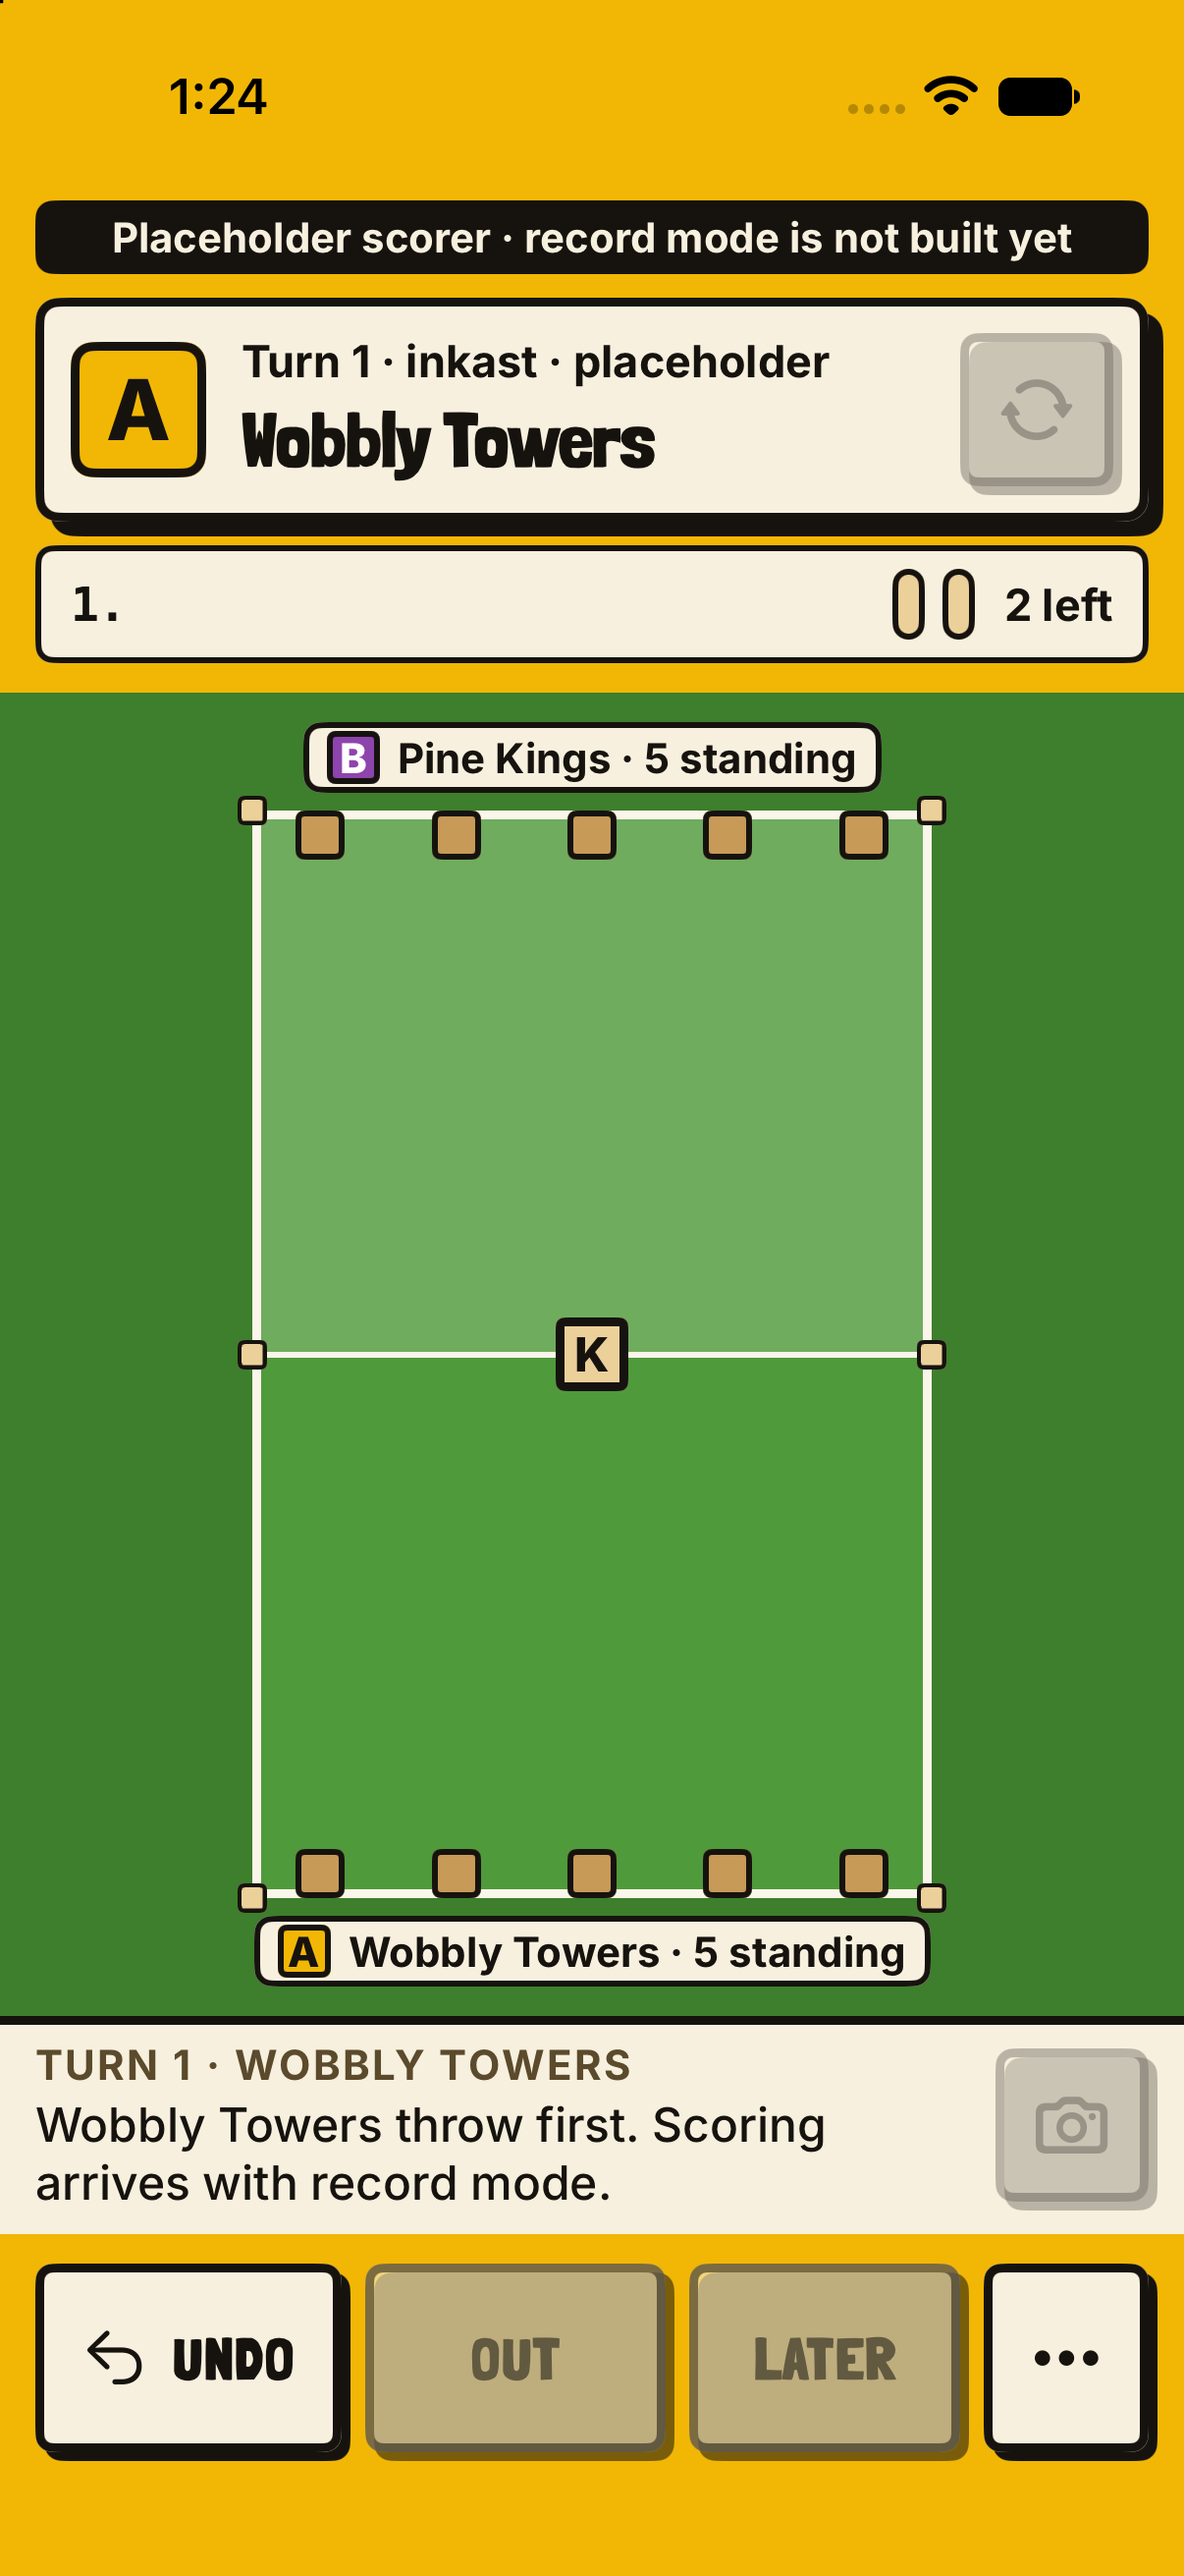
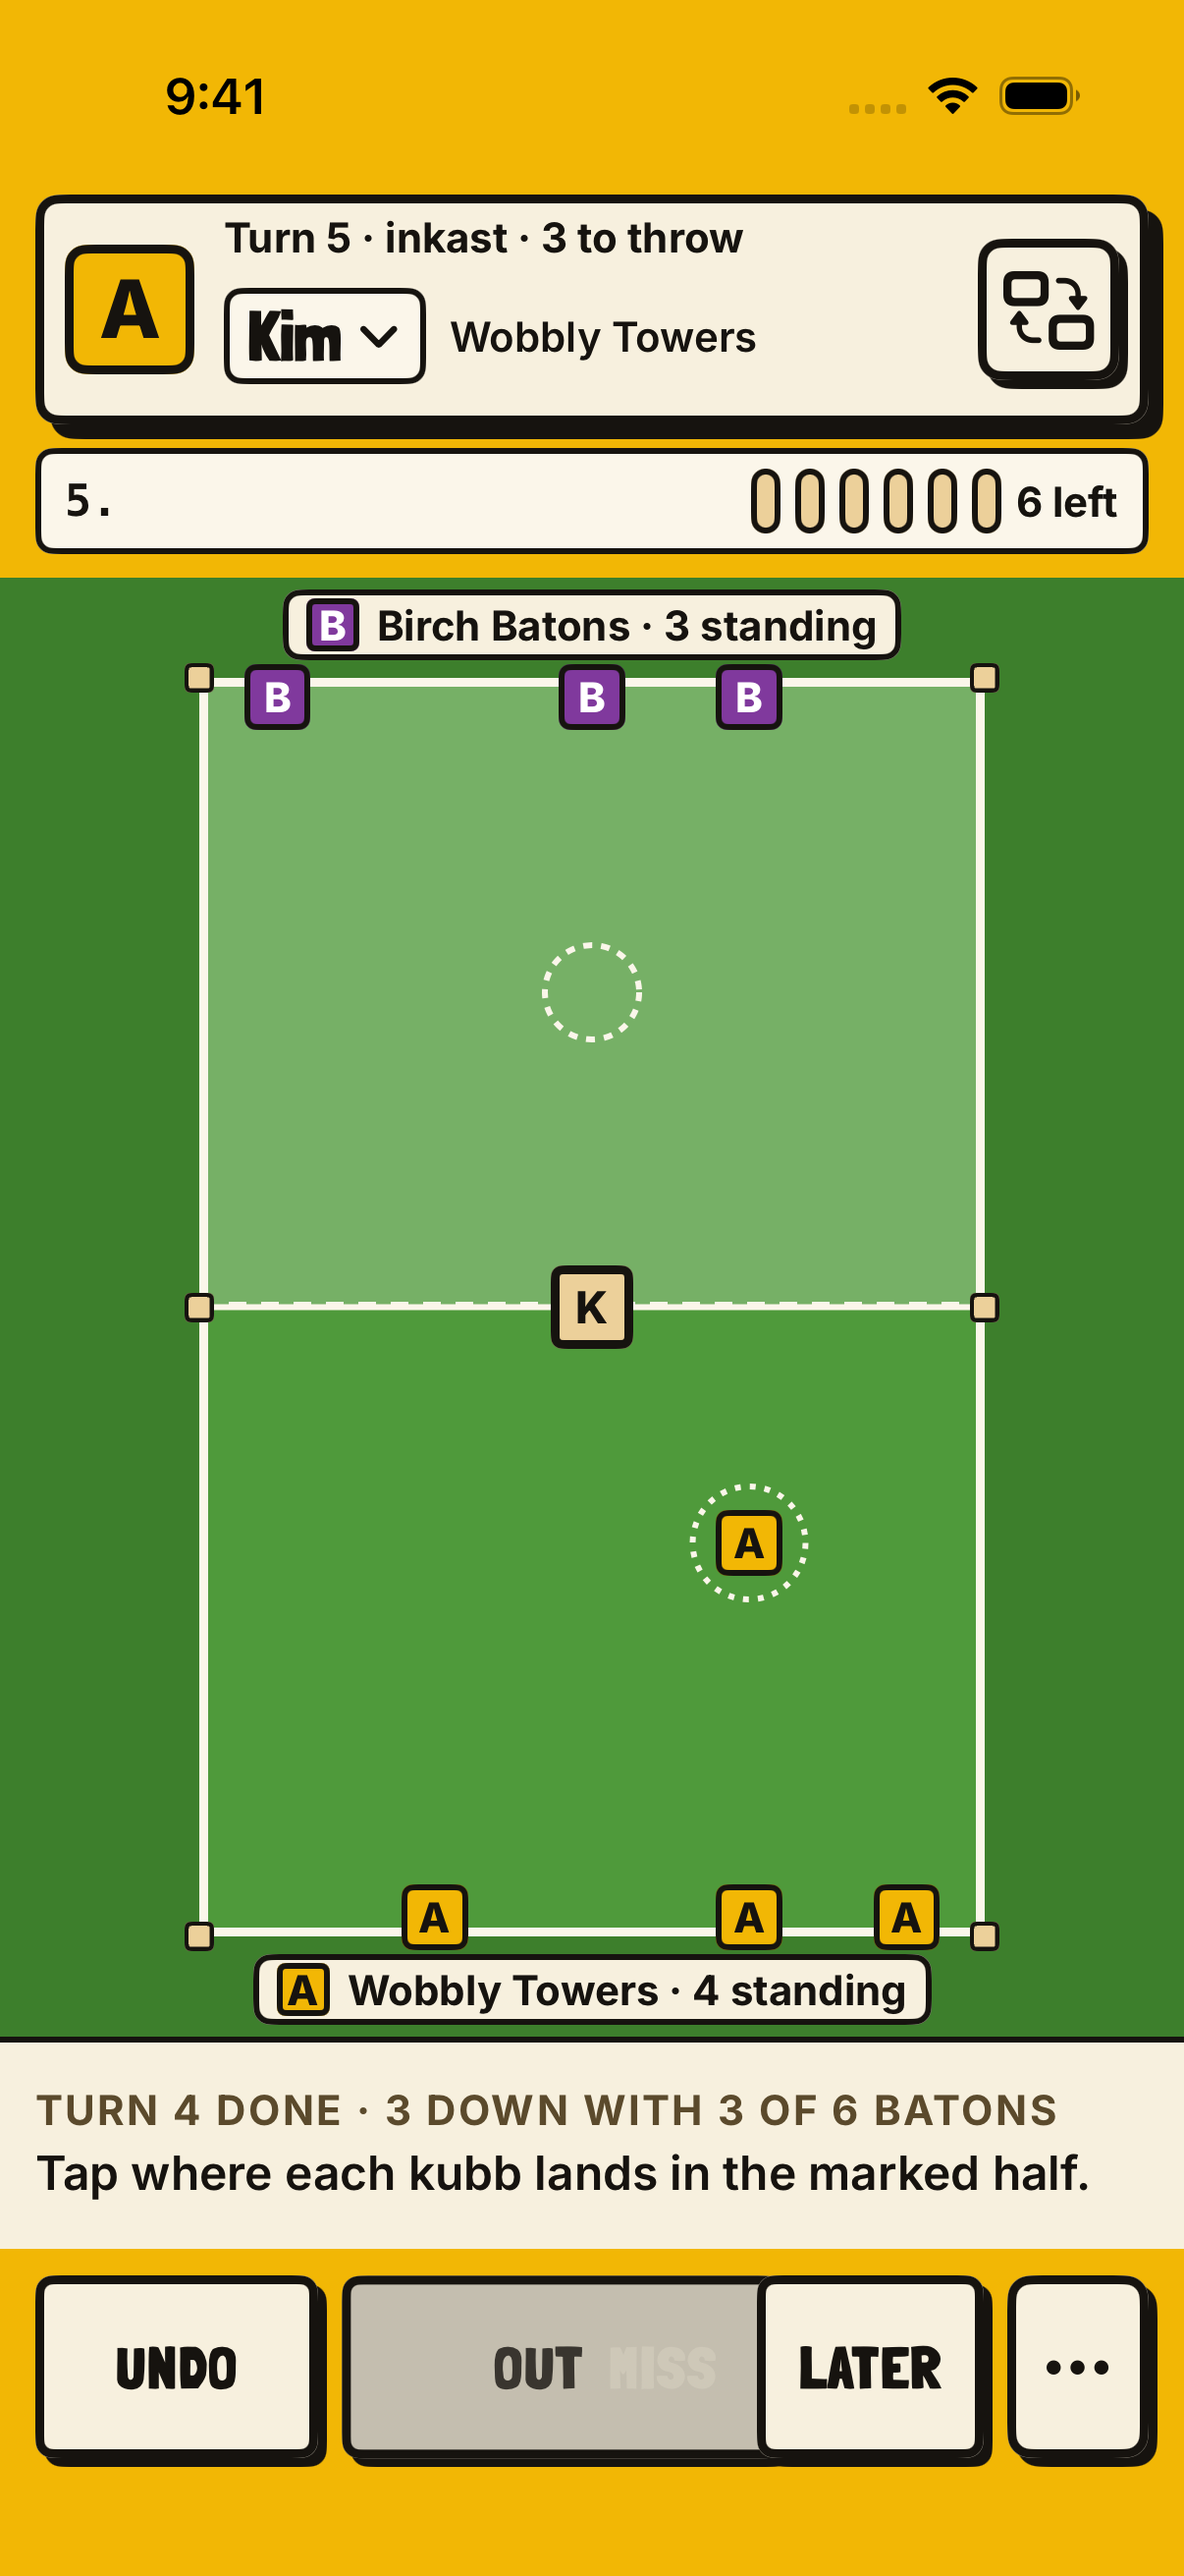
Document the live scorer and refresh the simulator gallery

diff --git a/AGENTS.md b/AGENTS.md
@@ -544,41 +544,63 @@ generated team names, the rules choice).
 
 ## 10. Conventions for agents
 
-- **Status** (2026-11-24): scaffold on branch `scaffold`, local only, no remote. Jamie
-  decides where the repository lives and whether it is public. Built: the Xcode project and
-  `PitchsideKit`, the design system, the model and storage, Home, Roster, Teams, This game,
-  the score sheet, Stats (per game and per saved name), opening a Notation 2 file, and a
-  **placeholder scorer** that draws the static pitch. Not built: record mode and the real
-  scorer, the timeline, the view switch (sideline/baseline), photos, the lay-line drag,
-  landscape, the app icon, drag to reorder (a menu does it for now).
-- **Layout.** `Pitchside/` the app target (SwiftUI; `Demo.swift` is DEBUG only).
-  `PitchsideKit/` the Swift package: `CMusl`, `CLua`, `KubbEngine` (kubb-engine v1.0.0,
-  vendored, behind `kubbCall`), `Notation` (pk-kubb-score v2-2026.11's parser, `canonical.js`
-  and `kubb.js`, vendored and run in JavaScriptCore), `PitchsideModel` (games, roster,
-  event log, the game file's headers and ids, stats, the scorer seam) and `PitchsideDesign`
-  (tokens from the design's `ps.css`, light and dark, and the components). `Config/`
-  (Info.plist, signing kept out of the repo), `scripts/` (vendoring, `version.sh`,
-  `screenshots.sh`), `docs/design/` (the design and `build-shots/`).
-- **The seam for the live scorer** is `PitchsideKit/Sources/PitchsideModel/Scorer.swift`:
-  `protocol LiveScorer` (the game, its events, the prompt, the winner, `record`, `undo`,
-  `setCapture`, `notation()`) and `protocol ScorerFactory`. The app asks
-  `AppModel.scorers` for one; today that is `PlaceholderScorer.Factory`. Record mode lands
-  as a new `LiveScorer` over the engine; no screen talks to the engine directly.
-- **Storage.** Application Support `Pitchside/`: `roster.json`, and per game
-  `games/<uuid>/game.json`, `events.jsonl` (append-only JSON Lines, fsynced after each
-  event; a torn last line is dropped) and `game.txt` (the notation). Offline and local:
-  no network, no analytics.
+- **Status (2026-11-24).** A game can be set up, scored, reopened, corrected and
+  exported on the iPhone simulator. The live pitch, in-game timeline, score sheet,
+  roster, local stats and opening other Notation 2 files are connected. The repository
+  stays local on `scaffold`. Photos, lay-line entry, landscape and an app icon are
+  future work. The team-order menu moves players. Apple has registered the explicit
+  identifier `com.throwingwood.pitchside` as “Kubb Pitchside” on Throwing Wood's
+  developer team. The owner creates the app record in App Store Connect.
+- **Layout.** `Pitchside/` contains the SwiftUI app. `ScorerView.swift` and
+  `PitchCanvas.swift` draw the live screen. `ScorerScreen.swift` interprets gestures
+  using the engine's next action and allowed events. `TimelineView.swift` previews
+  corrections. `Demo.swift` supplies invented games for DEBUG builds.
+  `PitchsideKit/` contains the Lua interpreter and musl maths, `KubbEngine`
+  (kubb-engine v1.1.0), `Notation` (the pk-kubb-score v2-2026.11 reader running in
+  JavaScriptCore), `PitchsideModel` and `PitchsideDesign`. The Xcode UI tests live in
+  `PitchsideUITests/`. The working reference and simulator screenshots are under
+  `docs/design/`.
+- **Scorer seam.** `PitchsideModel/Scorer.swift` declares `LiveScorer` and
+  `ScorerFactory`. `AppModel` uses `RecordScorer.Factory`. The scorer calls
+  `record.rebuild` on open, `record.add` for observations and `record.build` for an edit
+  preview. The engine returns the state, warnings, sheet and notation. See kubb-engine
+  `docs/RECORD.md` at v1.1.0 for the record contract that implements section 5's proposal.
+- **Storage.** Under Application Support `Pitchside/`, the roster is `roster.json` and
+  each game has a `games/<uuid>/` directory. In `events.jsonl` the start entry pins
+  setup, including typed names and explicit player ids. Each observation has its record
+  fields and id at the top level. The reserved `_log` object carries journal metadata.
+  Undo drops the last effective observation. A correction replaces, inserts or removes
+  an observation by id. Both append journal lines and replay the effective history.
+  A newline terminates each synced entry. The next append truncates a torn tail.
+  `game.json` keeps the game summary and `game.txt` is the engine's current notation,
+  a draft until `state.over`. Opening the app repairs stale exports from the journal.
+- **Capture and coordinates.** New games record the turn and standing positions.
+  The writer's released capture header names `players`, `pitch` and `stance` if used,
+  or `turns` when only outcomes are recorded. A switch applies per turn. The lay row is
+  reserved. New taps carry half, across, depth and their approximate tap provenance in the
+  journal. `PitchFrame` maps the three viewing positions to a common centre-line origin.
+  Record mode returns metre cells for kubbs and writes stance points to the centimetre.
+  Pieces in one cell are spread on screen so each is selectable. Stable piece ids and
+  original standing points in the returned state would let Pitchside draw a drilled
+  group at its observed spots. The observed advantage distance stays in the journal.
+  On a baton with both located and unlocated hits, `knownFelled` keeps the available
+  positions locally until the timeline editor can supply a complete felled word.
 - **Build and test.**
-  - `swift test --package-path PitchsideKit` (model, design contrast, the reader against
-    node's `kubb.js` on archived games read in place from `../pk-kubb-score/games`, and the
-    engine's golden hashes). Needs node on the PATH for the reader comparison.
+  - `swift test --package-path PitchsideKit` runs model, frame, contrast, reader and
+    engine tests. Node is needed to compare the reader with archived games read in
+    place from `../pk-kubb-score/games`. The Swift scorer replays all eleven tagged
+    record fixtures and compares their output bytes with the tagged desktop engine.
+    `scripts/record-fixtures.sh` regenerates the test input and reference output.
   - `xcodebuild -project Pitchside.xcodeproj -scheme Pitchside -destination
-    'platform=iOS Simulator,name=iPhone 17' build`. Simulator only; for a phone put
-    `DEVELOPMENT_TEAM` in `Config/Signing.local.xcconfig` (ignored by git).
-  - `scripts/screenshots.sh` builds the demo (`-PitchsideDemo`, invented games in a temp
-    folder) and writes `docs/design/build-shots/`.
-  - `scripts/vendor-engine.sh check` and `scripts/vendor-notation.sh check` verify the
-    vendored copies against their tags.
+    'platform=iOS Simulator,name=iPhone 17' CODE_SIGNING_ALLOWED=NO build` builds
+    the simulator app. Replace `build` with `-parallel-testing-enabled NO test` for
+    the seven UI journeys.
+  - `scripts/screenshots.sh --scorer "iPhone 17"` runs the UI journeys and writes their
+    attachments to `docs/design/build-shots/` and checks the simulator export with the
+    vendored reader. Omit `--scorer` to refresh the other
+    demo screens too. DEBUG demo launches use a temporary game store.
+  - `scripts/vendor-engine.sh check` and `scripts/vendor-notation.sh check` check
+    the tagged copies. Finish simulator work with `xcrun simctl shutdown all`.
 - **The engine is never edited here.** Not the vendored copy, not the kubb-engine checkout
   from here. A change to the rules, record mode or the writer is a kubb-engine pull
   request and a tag, then a sync here. The same for the notation: a pk-kubb-score pull

diff --git a/README.md b/README.md
@@ -3,10 +3,10 @@
 An iPhone app for scoring real games of kubb, throw by throw, in Planet Kubb Notation,
 from the side of the pitch.
 
-Status: scaffold (2026-11-24). The screens around the game work: teams, the match's
-switches, the score sheet, stats from the Planet Kubb reader, and opening a game file. The
-live scorer is a placeholder until the engine's record mode. Pitchside runs on the same
-Kubb Engine as Kubb: Throwing Wood. Games and names stay on the phone.
+Score a game on the pitch, undo a throw or correct an earlier turn in the timeline.
+The score sheet, notation export and player stats follow the same local record.
+Pitchside uses Kubb Engine v1.1.0 and the Planet Kubb Notation 2 reader. Games and
+roster names stay on the phone.
 
 `AGENTS.md` has the plan: what it is, the domain model, how it carries the engine, the
 notation it needs, the feature scope, the interface brief, the open questions, and how to
